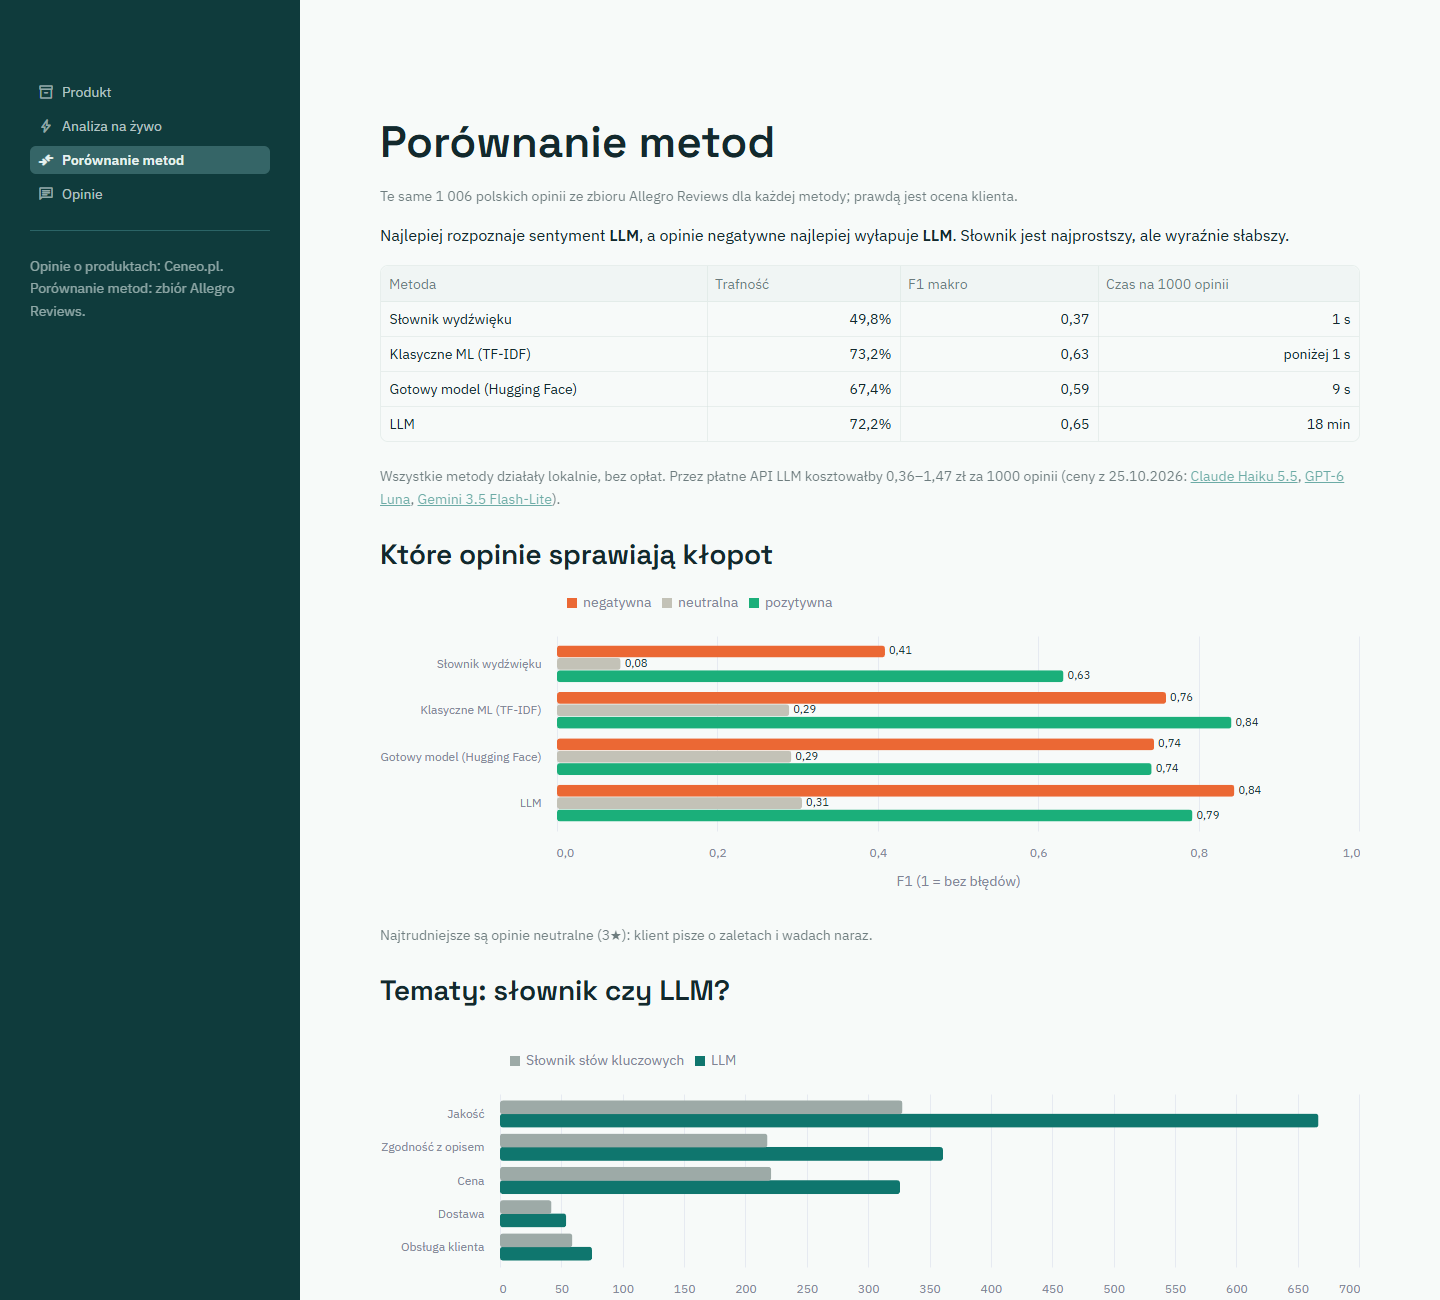
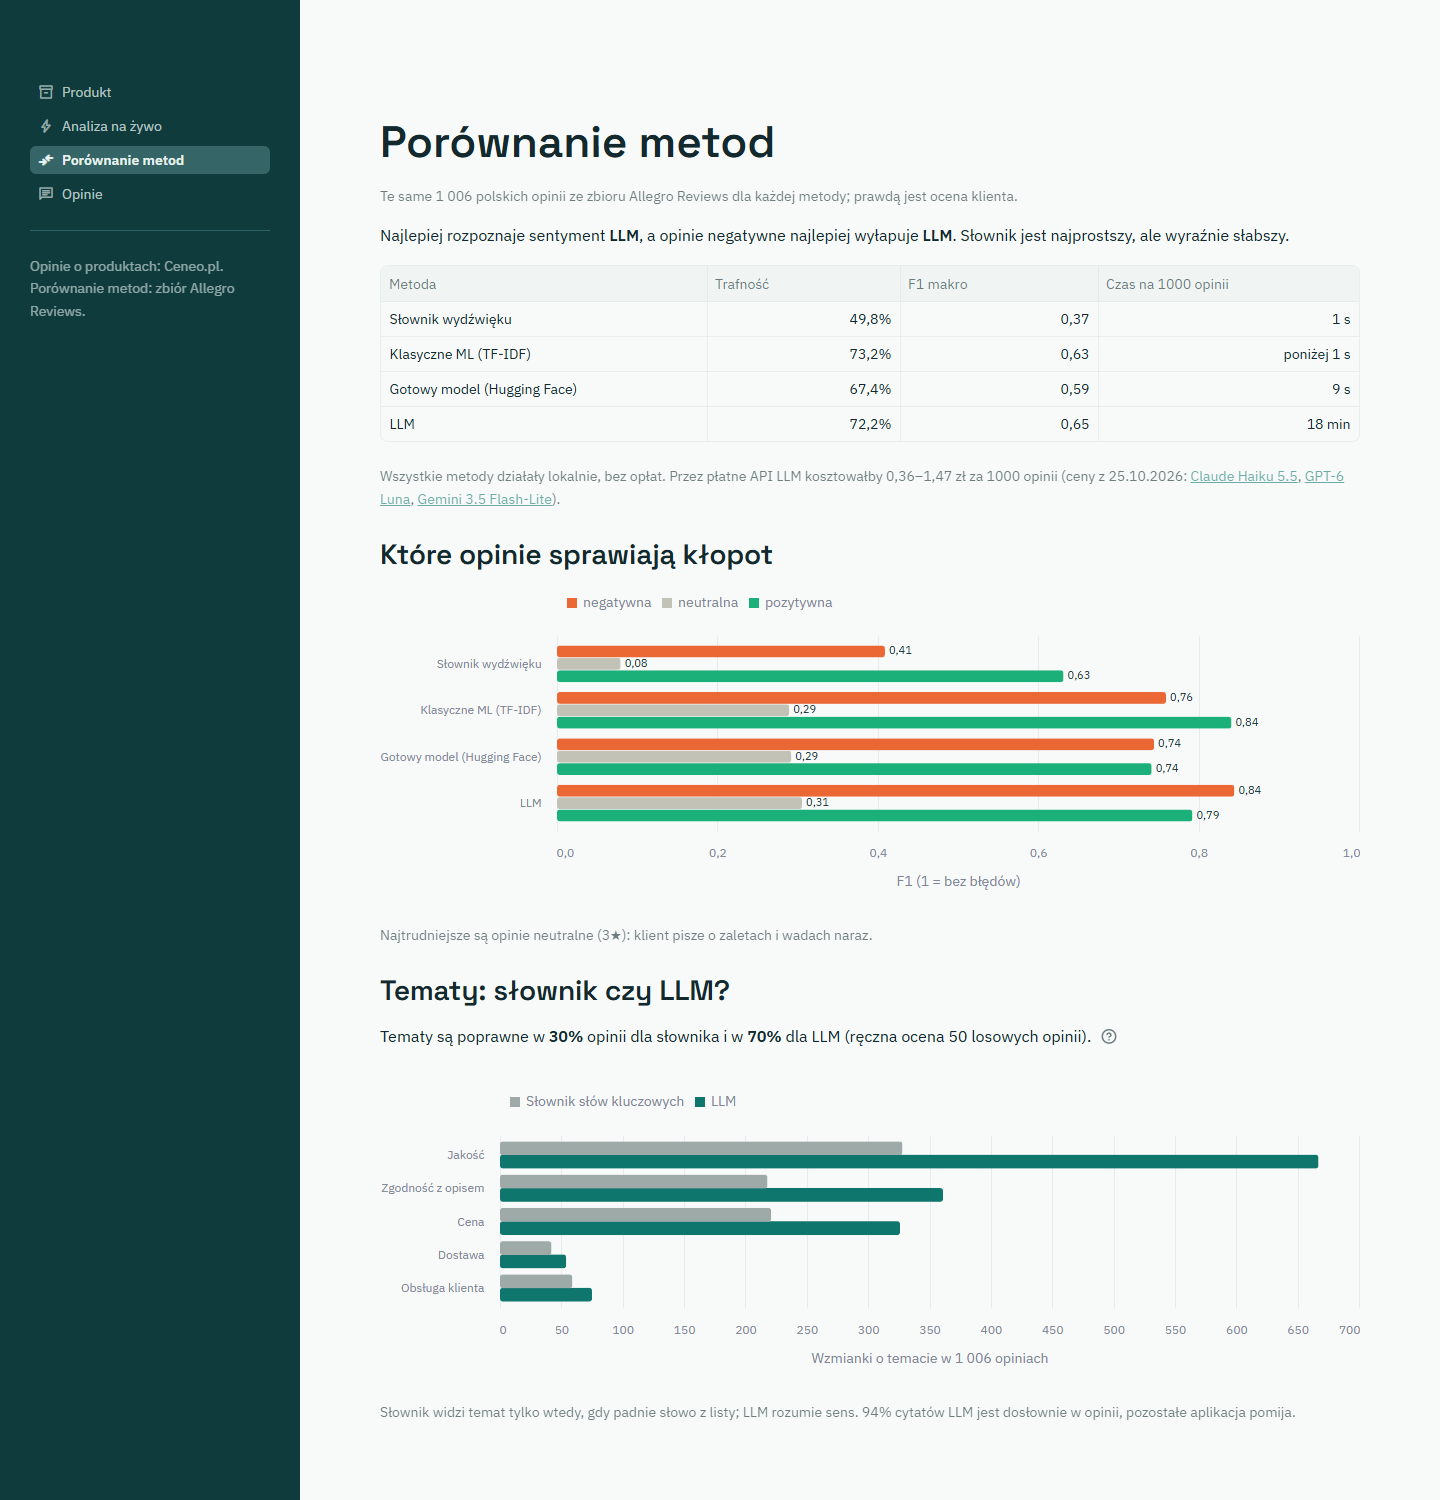
Show the manual topic check in the app and correct the Ceneo description

diff --git a/report.py b/report.py
@@ -13,16 +13,16 @@ import numpy as np
 import pandas as pd
 
 from src.config import (
-    API_PRICES_CHECKED, DEMO_RESULTS, EVAL_RESULTS, METRICS_PATH, PRODUCTS_RESULTS, RESULTS_DIR, SEED, USD_PLN_SOURCE,
+    API_PRICES_CHECKED, DEMO_RESULTS, EVAL_RESULTS, METRICS_PATH, PRODUCTS_RESULTS, RESULTS_DIR, SEED, TOPIC_SAMPLE,
+    USD_PLN_SOURCE,
 )
 from src.formatting import (
     INK, METHOD_LABELS, NEGATIVE, NEUTRAL, POSITIVE, SENTIMENT_LABELS, SOURCE_LABELS, TEAL, fmt_int, fmt_num,
     fmt_pct, fmt_pln, fmt_seconds,
 )
 from src.llm import api_costs
-from src.topics import TOPIC_LABELS
+from src.topics import TOPIC_LABELS, manual_check
 
-TOPIC_SAMPLE = RESULTS_DIR / "topic_review_sample.csv"
 SAMPLE_SIZE = 50
 
 
@@ -98,15 +98,13 @@ def topic_check(evaluated: pd.DataFrame) -> str:
             "poprawne_slownik": "",
             "poprawne_llm": "",
         }).to_csv(TOPIC_SAMPLE, index=False, encoding="utf-8-sig")
-    checked = pd.read_csv(TOPIC_SAMPLE, encoding="utf-8-sig", dtype=str).fillna("")
-    answers = {source: checked[f"poprawne_{source}"].str.strip().str.lower() for source in ("slownik", "llm")}
-    if not all(answers[source].isin(["tak", "nie"]).all() for source in answers):
+    check = manual_check()
+    if check is None:
         return (f"Ręczna ocena jeszcze niewypełniona: w `{TOPIC_SAMPLE.name}` dla każdej z {SAMPLE_SIZE} opinii wpisz "
                 "„tak” albo „nie” w kolumnach `poprawne_slownik` i `poprawne_llm` (czy tematy i ich wydźwięk "
                 "zgadzają się z treścią opinii), potem uruchom `report.py` ponownie.")
-    return (f"Ręczna ocena {SAMPLE_SIZE} losowych opinii: tematy poprawne w "
-            f"{fmt_pct((answers['slownik'] == 'tak').mean())} opinii dla słownika i "
-            f"{fmt_pct((answers['llm'] == 'tak').mean())} dla LLM.")
+    return (f"Ręczna ocena {check['reviews']} losowych opinii: tematy poprawne w {fmt_pct(check['keywords'])} "
+            f"opinii dla słownika i {fmt_pct(check['llm'])} dla LLM.")
 
 
 def main() -> None:
@@ -153,7 +151,8 @@ Wygenerowane przez `report.py` ({date.today():%d.%m.%Y}) z wyników `analyze.py`
   negatywne {fmt_pct(shares.get('negative', 0), 1)}, neutralne {fmt_pct(shares.get('neutral', 0), 1)}.
 - Prawda: ocena klienta – poniżej 3★ negatywna, 3★ neutralna, powyżej 3★ pozytywna.
 - Produkty demo: {len(products)} produktów z Ceneo.pl, po pierwszej stronie opinii (zwykle 10, w kolejności
-  wybranej przez Ceneo; kolejnych stron Ceneo nie udostępnia bez weryfikacji, że jest się człowiekiem).
+  wybranej przez Ceneo; kolejne strony Ceneo otwiera tylko w przeglądarce, po automatycznym sprawdzeniu,
+  czy to nie bot).
   Razem {fmt_int(len(demo))} opinii, pozytywne {fmt_pct((demo['sentiment'] == 'positive').mean())}.
 
 ## Metody
@@ -172,9 +171,8 @@ Wygenerowane przez `report.py` ({date.today():%d.%m.%Y}) z wyników `analyze.py`
 
 {md_table(comparison)}
 
-Czas zmierzony na {metrics['gpu']}; LLM: {metrics['llm_workers']} zapytania naraz. Wszystkie metody działały
-lokalnie, więc ich koszt to 0 zł (poza prądem i sprzętem). Metoda, która zawsze mówi „pozytywna”, miałaby
-trafność {fmt_pct(shares.get('positive', 0))} i F1 makro {fmt_num(2 * shares.get('positive', 0) / (1 + shares.get('positive', 0)) / 3)} –
+Czas zmierzony na {metrics['gpu']}. Wszystkie metody działały lokalnie, więc ich koszt to 0 zł
+(poza prądem i sprzętem). Metoda, która zawsze mówi „pozytywna”, miałaby trafność {fmt_pct(shares.get('positive', 0))} i F1 makro {fmt_num(2 * shares.get('positive', 0) / (1 + shares.get('positive', 0)) / 3)} –
 dlatego główną miarą jest F1 makro.
 
 ## Ile kosztowałby LLM przez API

diff --git a/src/topics.py b/src/topics.py
@@ -9,6 +9,8 @@ import re
 
 import pandas as pd
 
+from src.config import TOPIC_SAMPLE
+
 TOPIC_LABELS = {
     "quality": "Jakość", "description": "Zgodność z opisem", "price": "Cena", "delivery": "Dostawa",
     "service": "Obsługa klienta",
@@ -78,3 +80,16 @@ def topic_summary(reviews: pd.DataFrame, source: str) -> pd.DataFrame:
             quotes = mentions.loc[(mentions["topic"] == topic) & (mentions["polarity"] == polarity), "quote"]
             summary.append({"topic": topic, "polarity": polarity, "reviews": len(quotes), "quotes": quotes.tolist()})
     return pd.DataFrame(summary)
+
+
+def manual_check() -> dict | None:
+    """Manual check of topics in TOPIC_SAMPLE: the number of reviews and, for "keywords" and "llm", the share
+    of reviews with correct topics. None until every review has "tak" or "nie" for both sources."""
+    if not TOPIC_SAMPLE.exists():
+        return None
+    checked = pd.read_csv(TOPIC_SAMPLE, encoding="utf-8-sig", dtype=str).fillna("")
+    answers = {source: checked[column].str.strip().str.lower()
+               for source, column in (("keywords", "poprawne_slownik"), ("llm", "poprawne_llm"))}
+    if not all(a.isin(["tak", "nie"]).all() for a in answers.values()):
+        return None
+    return {"reviews": len(checked), **{source: (a == "tak").mean() for source, a in answers.items()}}

diff --git a/views/comparison.py b/views/comparison.py
@@ -13,7 +13,7 @@ from src.formatting import (
     fmt_pct, fmt_pln, fmt_seconds,
 )
 from src.llm import api_costs
-from src.topics import TOPIC_LABELS
+from src.topics import TOPIC_LABELS, manual_check
 
 metrics = load_metrics()
 evaluated = load_eval()
@@ -74,6 +74,11 @@ st.altair_chart((chart + labels).properties(height=320), width="stretch")
 st.caption("Najtrudniejsze są opinie neutralne (3★): klient pisze o zaletach i wadach naraz.")
 
 st.subheader("Tematy: słownik czy LLM?")
+check = manual_check()
+if check:
+    st.markdown(f"Tematy są poprawne w **{fmt_pct(check['keywords'])}** opinii dla słownika i w "
+                f"**{fmt_pct(check['llm'])}** dla LLM (ręczna ocena {check['reviews']} losowych opinii).",
+                help="Opinia liczy się jako poprawna, gdy tematy i ich wydźwięk zgadzają się z jej treścią.")
 counts = pd.DataFrame([
     {"Temat": TOPIC_LABELS[item["topic"]], "Źródło": SOURCE_LABELS[source]}
     for source in SOURCE_LABELS for raw in evaluated[f"topics_{source}"] for item in json.loads(raw)

diff --git a/src/ceneo.py b/src/ceneo.py
@@ -1,7 +1,8 @@
 """Reviews of one product from its page on Ceneo.pl.
 
 Only the product page is fetched, with one request. It shows the first page of reviews (about 10, in the order
-Ceneo chooses). Further pages are loaded by the page's scripts behind a bot check, which we do not get around.
+Ceneo chooses). Further pages (/<ID>/opinie-2 and so on) open only in a browser, after a script checks that it is
+not a bot; we do not get around that.
 Reviewer names are not kept. httpx and BeautifulSoup are imported inside fetch_product: the app itself (and Docker)
 uses only product_link and does not install them.
 """

diff --git a/views/live.py b/views/live.py
@@ -20,7 +20,7 @@ with st.form("live"):
     link = st.text_input(
         "Link do produktu na Ceneo", placeholder=LIVE_EXAMPLE_LINK,
         help="Bierzemy opinie z pierwszej strony produktu na Ceneo (zwykle 10, w kolejności wybranej przez Ceneo). "
-             "Kolejnych stron Ceneo nie udostępnia bez weryfikacji, że jesteś człowiekiem.",
+             "Kolejne strony Ceneo otwiera tylko w przeglądarce, po automatycznym sprawdzeniu, czy to nie bot.",
     )
     submitted = st.form_submit_button("Analizuj", type="primary")
 st.caption(f"Przykład: `{LIVE_EXAMPLE_LINK}`")

diff --git a/src/config.py b/src/config.py
@@ -26,6 +26,7 @@ METRICS_PATH = PRECOMPUTED_DIR / "metrics.json"
 MODELS_DIR = ROOT / "models"  # TF-IDF model for the live analysis (not in git)
 TFIDF_PATH = MODELS_DIR / "tfidf.joblib"
 RESULTS_DIR = ROOT / "results"
+TOPIC_SAMPLE = RESULTS_DIR / "topic_review_sample.csv"  # sample for the manual check of topics, filled in by hand
 
 SEED = 42
 # Ceneo product IDs (https://www.ceneo.pl/<ID>). The first page of reviews of each is fetched by prepare_data.py.

diff --git a/docs/tutorial.md b/docs/tutorial.md
@@ -29,7 +29,7 @@ czyli zwykle 10 opinii w kolejności wybranej przez Ceneo.
    Rozwiń „Jakość”: klienci piszą np. „gwinty na sruby zle spasowane”. Narzekają też na obsługę klienta (2 opinie).
 2. Przełącz „Źródło tematów” na **Słownik słów kluczowych**. Słownik znajduje tu tylko 3 wzmianki o tematach
    (LLM – 10): pomija zdania, w których nie zna żadnego słowa nacechowanego emocjonalnie.
-3. Wybierz odkurzacz Jigoo C200 (same opinie 5★). W „Co poprawić” jest tylko jedna uwaga, a klienci chwalą
+3. Wybierz odkurzacz Jigoo C200 (same wysokie oceny: 9 opinii 5★ i jedna 4,5★). W „Co poprawić” jest tylko jedna uwaga, a klienci chwalą
    głównie cenę.
 
 ## 2. Analiza na żywo
@@ -40,8 +40,8 @@ Tu wklejasz link do dowolnego produktu na Ceneo. Aplikacja pobiera stronę produ
 dla opinii z jej pierwszej strony: cztery metody, tematy i raport. Wynik wygląda tak samo jak na ekranie Produkt.
 
 - Działa tylko przy lokalnym uruchomieniu, z kartą graficzną i Ollamą. W Dockerze ekran wyjaśnia, czego brakuje.
-- Kolejnych stron opinii Ceneo nie udostępnia bez weryfikacji, że jesteś człowiekiem, więc analizujemy tylko
-  pierwszą stronę.
+- Kolejne strony opinii Ceneo otwiera tylko w przeglądarce, po automatycznym sprawdzeniu, czy to nie bot,
+  więc analizujemy tylko pierwszą stronę.
 - Analiza 10 opinii trwa ok. pół minuty. Pierwsza po dłuższej przerwie jest wolniejsza, bo Ollama musi wczytać model.
 
 **Spróbuj:** wklej przykładowy link spod pola (Apple iPhone 15 256GB) i kliknij **Analizuj**. Zobaczysz 10 z 50
@@ -76,7 +76,8 @@ ocena klienta: poniżej 3★ to opinia negatywna, 3★ neutralna, powyżej 3★ 
 - Zdanie pod tabelą przelicza tokeny zużyte przez LLM na ceny trzech tanich modeli w chmurze: od 0,36 do 1,47 zł
   za 1000 opinii (linki prowadzą do cenników).
 - Wykres „Tematy: słownik czy LLM?” pokazuje, że LLM znajduje więcej wzmianek o każdym temacie niż słownik,
-  np. o jakości 667 zamiast 328 na 1006 opinii.
+  np. o jakości 667 zamiast 328 na 1006 opinii. Zdanie nad wykresem podaje wynik ręcznej oceny 50 losowych opinii:
+  tematy są poprawne w 30% opinii dla słownika i w 70% dla LLM.
 
 Dlaczego główną miarą jest F1 makro, a nie trafność, wyjaśnia ikonka „?” przy nagłówku kolumny.
 

diff --git a/results/summary.md b/results/summary.md
@@ -1,6 +1,6 @@
 # Wyniki – Głos Klienta
 
-Wygenerowane przez `report.py` (28.10.2026) z wyników `analyze.py` z 2026-10-28.
+Wygenerowane przez `report.py` (29.10.2026) z wyników `analyze.py` z 2026-10-28.
 
 ## Dane
 
@@ -10,7 +10,8 @@ Wygenerowane przez `report.py` (28.10.2026) z wyników `analyze.py` z 2026-10-28
   negatywne 32,6%, neutralne 14,3%.
 - Prawda: ocena klienta – poniżej 3★ negatywna, 3★ neutralna, powyżej 3★ pozytywna.
 - Produkty demo: 10 produktów z Ceneo.pl, po pierwszej stronie opinii (zwykle 10, w kolejności
-  wybranej przez Ceneo; kolejnych stron Ceneo nie udostępnia bez weryfikacji, że jest się człowiekiem).
+  wybranej przez Ceneo; kolejne strony Ceneo otwiera tylko w przeglądarce, po automatycznym sprawdzeniu,
+  czy to nie bot).
   Razem 100 opinii, pozytywne 94%.
 
 ## Metody
@@ -34,9 +35,8 @@ Wygenerowane przez `report.py` (28.10.2026) z wyników `analyze.py` z 2026-10-28
 | Gotowy model (Hugging Face) | 67,4% | 0,59 | 0,74 | 0,29 | 0,74 | 9 s |
 | LLM | 72,2% | 0,65 | 0,84 | 0,31 | 0,79 | 18 min |
 
-Czas zmierzony na NVIDIA GeForce RTX 5070; LLM: 4 zapytania naraz. Wszystkie metody działały
-lokalnie, więc ich koszt to 0 zł (poza prądem i sprzętem). Metoda, która zawsze mówi „pozytywna”, miałaby
-trafność 53% i F1 makro 0,23 –
+Czas zmierzony na NVIDIA GeForce RTX 5070. Wszystkie metody działały lokalnie, więc ich koszt to 0 zł
+(poza prądem i sprzętem). Metoda, która zawsze mówi „pozytywna”, miałaby trafność 53% i F1 makro 0,23 –
 dlatego główną miarą jest F1 makro.
 
 ## Ile kosztowałby LLM przez API
@@ -65,7 +65,7 @@ Wzmianki o tematach w 1 006 opiniach:
 
 Cytaty LLM dosłownie obecne w opinii: 94% (pozostałe aplikacja pomija).
 
-Ręczna ocena jeszcze niewypełniona: w `topic_review_sample.csv` dla każdej z 50 opinii wpisz „tak” albo „nie” w kolumnach `poprawne_slownik` i `poprawne_llm` (czy tematy i ich wydźwięk zgadzają się z treścią opinii), potem uruchom `report.py` ponownie.
+Ręczna ocena 50 losowych opinii: tematy poprawne w 30% opinii dla słownika i 70% dla LLM.
 
 ## Przykłady, w których słownik się myli, a LLM nie
 

diff --git a/README.md b/README.md
@@ -13,8 +13,8 @@ z nich.
   ze słownika albo z LLM, oraz raport dla menedżera.
 - **Analiza na żywo** – wklejasz link do dowolnego produktu na Ceneo, a aplikacja pobiera jego opinie i liczy
   to samo (tylko przy lokalnym uruchomieniu).
-- **Porównanie metod** – trafność, F1 i czas analizy 1000 opinii dla czterech metod oraz szacunek kosztu
-  LLM w płatnych API.
+- **Porównanie metod** – trafność, F1 i czas analizy 1000 opinii dla czterech metod, szacunek kosztu
+  LLM w płatnych API oraz ręczna ocena tematów ze słownika i z LLM.
 - **Opinie** – opinie produktów demo z werdyktem każdej metody; widać, gdzie która metoda się myli.
 
 Jak korzystać z aplikacji, krok po kroku: [docs/tutorial.md](docs/tutorial.md).
@@ -25,7 +25,7 @@ Podsumowanie wyników (tabele i wykresy): [results/summary.md](results/summary.m
 
 - **Opinie o produktach: [Ceneo.pl](https://www.ceneo.pl).** Aplikacja pobiera tylko stronę produktu (jedno
   zapytanie) i bierze z niej pierwszą stronę opinii – zwykle 10, w kolejności wybranej przez Ceneo. Kolejne
-  strony Ceneo udostępnia dopiero po weryfikacji, że jest się człowiekiem, i tego nie obchodzimy.
+  strony Ceneo otwiera tylko w przeglądarce, po automatycznym sprawdzeniu, czy to nie bot – tego nie obchodzimy.
   Zapisujemy tylko ocenę, treść i datę opinii, bez nazw autorów.
 - **Porównanie metod i nauka TF-IDF: [Allegro Reviews](https://huggingface.co/datasets/allegro/klej-allegro-reviews)**
   z benchmarku [KLEJ](https://klejbenchmark.com) (licencja CC BY-SA 4.0): ok. 11,6 tys. opinii z Allegro.pl
